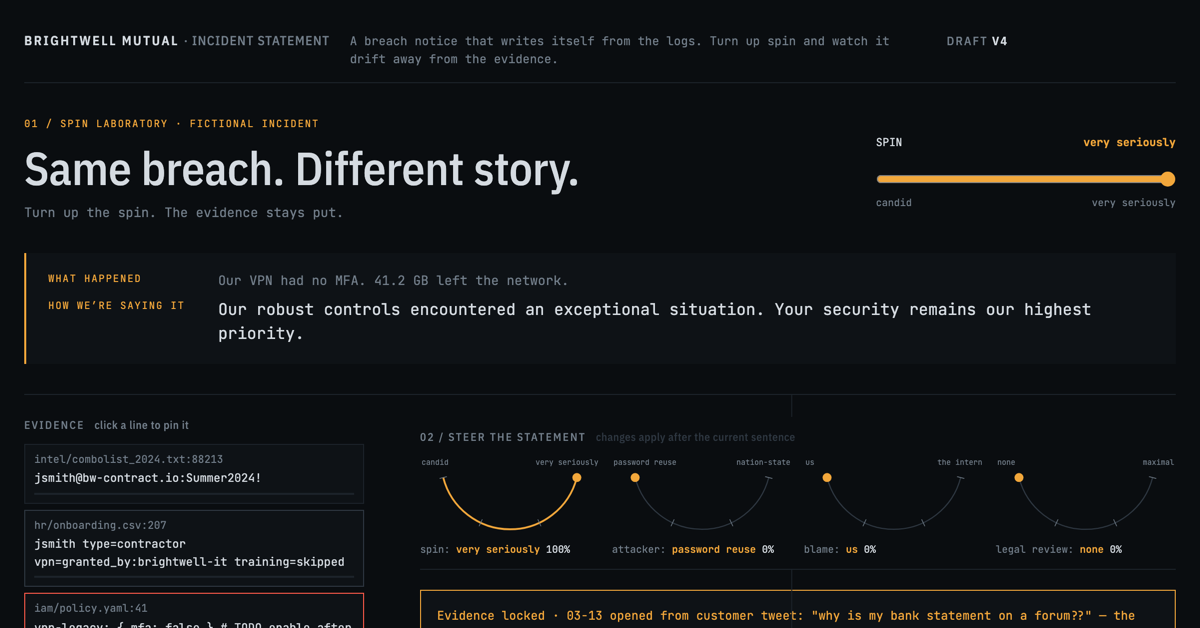
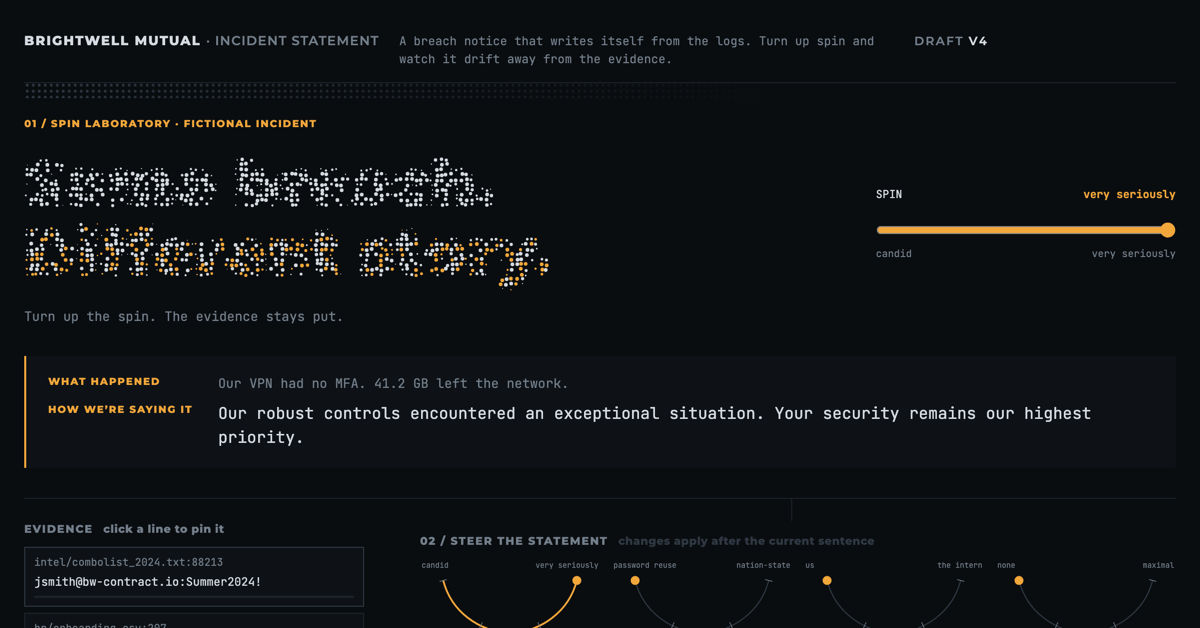
Soften max-spin breakdown; refresh README screenshot and link card

diff --git a/halftone.js b/halftone.js
@@ -17,14 +17,14 @@
     const l = Math.max(0, Math.min(stops.length - 1, level)), i = Math.min(stops.length - 2, Math.floor(l));
     return stops[i] + (stops[i + 1] - stops[i]) * (l - i);
   }
-  const DROPOUT = [0, .12, .28, .45];
+  const DROPOUT = [0, .08, .18, .3];
   const ACCENT = [0, .08, .2, .35];
   const INK = 0.04;   // below this a cell is paper, not ink
 
   // accentFrom: {col, row} — cells right of col on rows at or below row can turn accent; null for none.
   function dotField({ cols, rows, cell, coverage, accentFrom = null }, level, seed = 1) {
     const drop = lerpStops(DROPOUT, level), accent = lerpStops(ACCENT, level);
-    const shrink = 1 - 0.12 * level, wobble = cell * 0.35 * level / 3;
+    const shrink = 1 - 0.08 * level, wobble = cell * 0.22 * level / 3;
     const dots = [];
     for (let row = 0; row < rows; row++) {
       for (let col = 0; col < cols; col++) {
